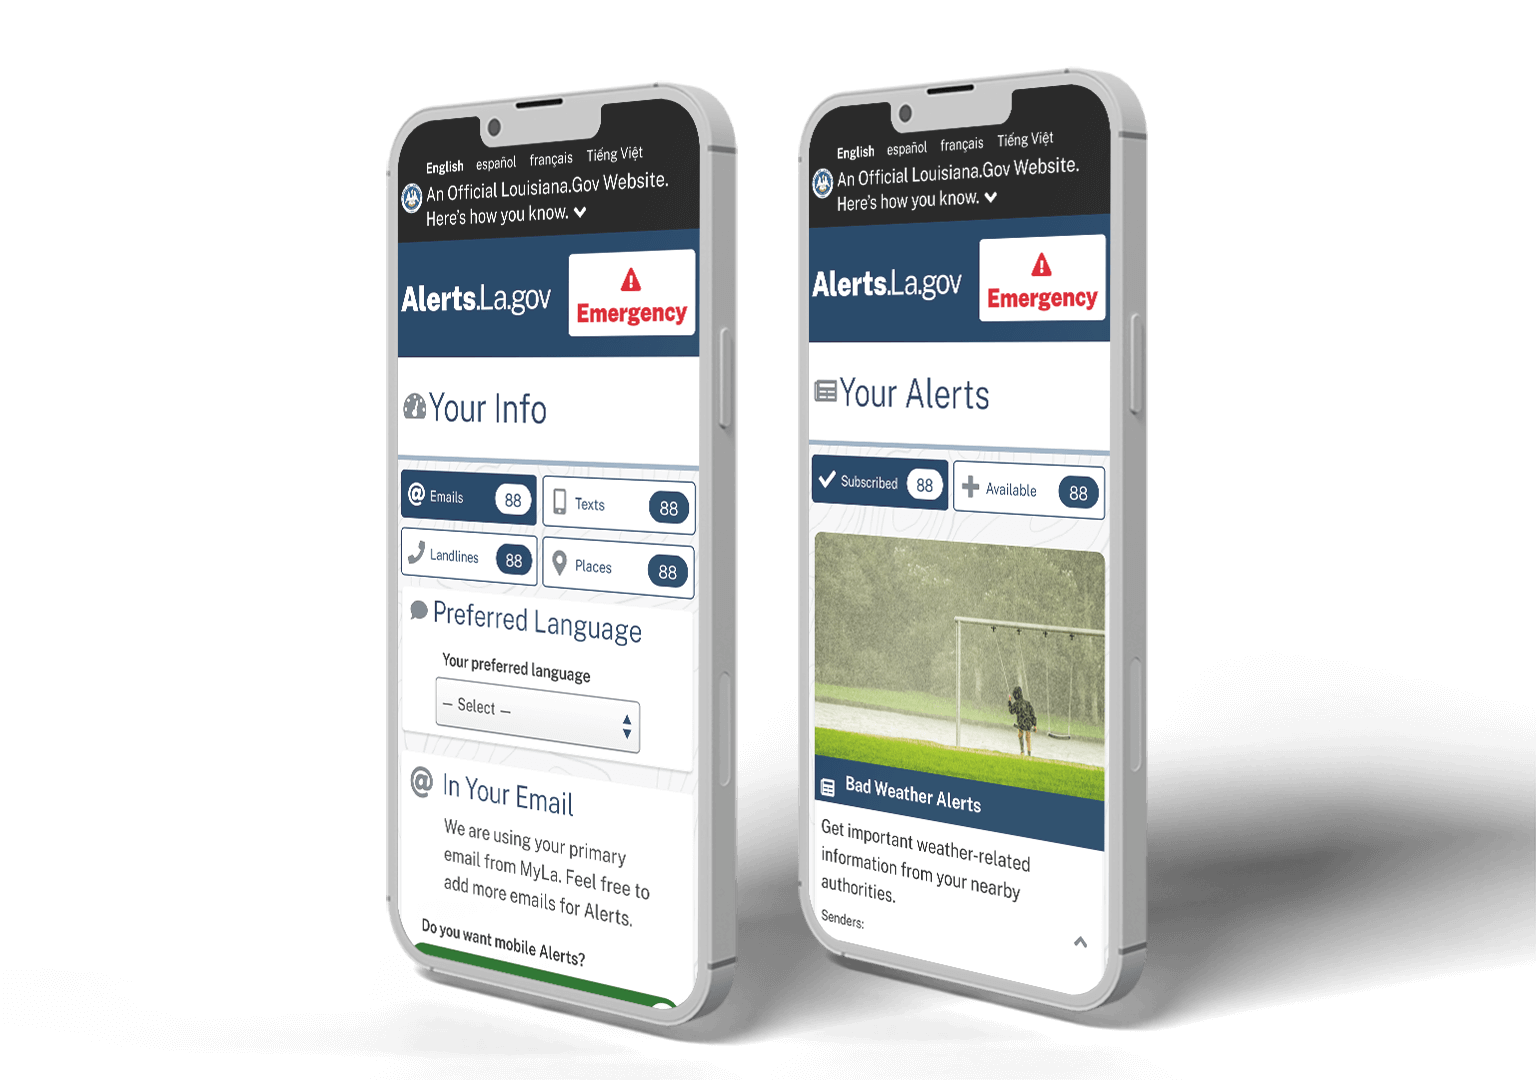
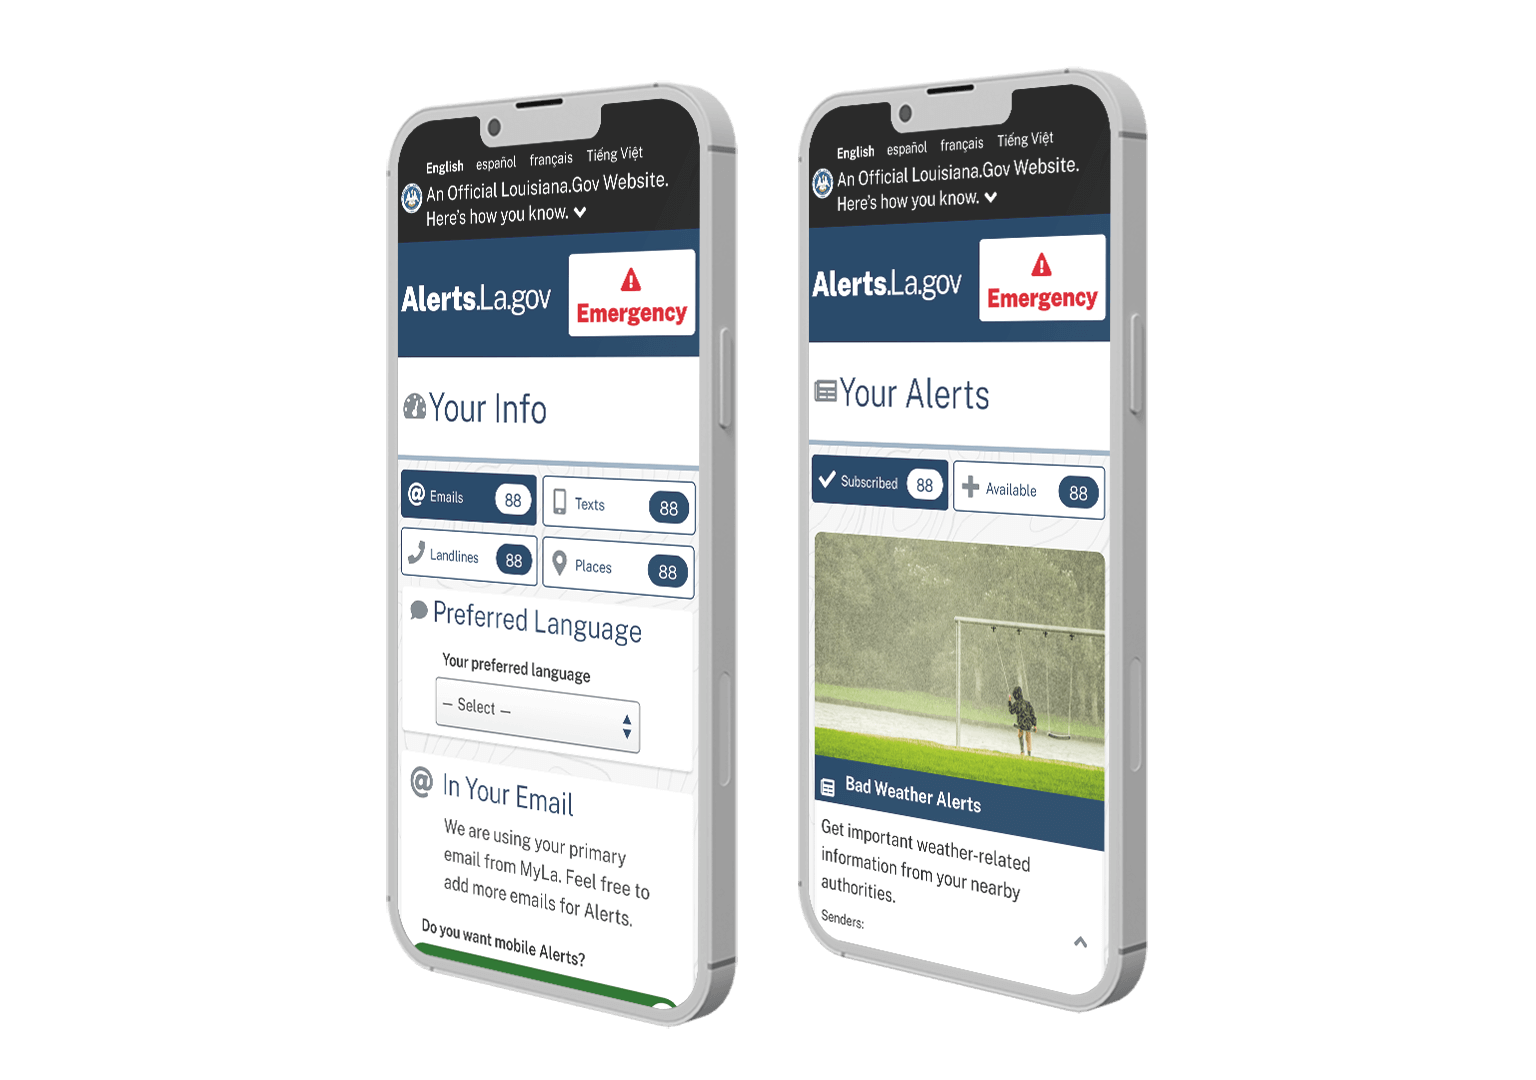
image updates

Changed region(s): [[0.4062, 0.7028, 1.0, 0.9778], [0.3125, 0.9167, 0.4062, 0.9472], [0.2812, 0.8861, 0.3125, 0.9167]]

diff --git a/src/sass/_custom.scss b/src/sass/_custom.scss
@@ -24,6 +24,10 @@ body {
     top: 0;
   }
 }
+.img-shadow {
+  -webkit-filter: drop-shadow(5px 5px 5px rgba(0,0,0,.25) );
+          filter: drop-shadow(5px 5px 5px rgba(0,0,0,.25));
+}
 .navbar-brand {
   @extend .position-relative;
   background-color: $grey-medium;
@@ -310,8 +314,10 @@ background-attachment: fixed;
   img {
     @extend .img-fluid;
     @extend .d-block;
+    @extend .rounded;
     @extend .mt-4;
-    @extend .mb-4;
+    @extend .mb-5;
+    @extend .img-shadow;
     border-radius: .25rem;
     transform: scale(1.05);
   }

diff --git a/src/projects/art-gallery-app.md b/src/projects/art-gallery-app.md
@@ -11,7 +11,7 @@ projectImgSrc2: /images/projects/art-gallery-app/art-gallery-app-mockups-designe
 projectImageAlt2: Two phones, one with the home screen of the art gallery app, the other with an art collections screen of the app.
 projectImgSrc3: /images/projects/art-gallery-app/art-gallery-app-mockups-designed-isral-duke-set-3.png
 projectImageAlt3: Two phones, one with the ticket purchase process started and the other with the ticket purchase confirmation.
-projectImgSrc4: /images/projects/art-gallery-app/art-gallery-app-canvas-designed-isral-duke.png
+projectImgSrc4: /images/projects/art-gallery-app/art-gallery-app-canvas-designed-isral-duke.jpg
 projectImageAlt4: A view of some of design screens which comprise the art gallery app.
 projectPrototypeLink: https://www.figma.com/proto/Hh5HjU7yPB3WbHwYxFKIDj/Art-Gallery-Tour?page-id=138%3A932&node-id=138%3A940&viewport=241%2C48%2C0.11&scaling=scale-down&
 projectDesignFile: https://www.figma.com/file/Hh5HjU7yPB3WbHwYxFKIDj/gallerWeMe-art-gallery?node-id=138%3A932
@@ -46,24 +46,24 @@ The research began with online surveys to determine the content in the mobile ap
 
 Paper sketches were used to capture initial design ideas, using crazy 8 methodology.
 
-<a data-fslightbox href="/images/projects/art-gallery-app/art-gallery-app-initial-concepts-designed-isral-duke.png">
-    <img alt="Initial design concept sketches for the art gallery app." src="/images/projects/art-gallery-app/art-gallery-app-initial-concepts-designed-isral-duke.png">
+<a data-fslightbox href="/images/projects/art-gallery-app/art-gallery-app-initial-concepts-designed-isral-duke.jpg">
+    <img alt="Initial design concept sketches for the art gallery app." src="/images/projects/art-gallery-app/art-gallery-app-initial-concepts-designed-isral-duke.jpg">
 </a>
 
 ### Digital Wireframes
 
 The best ideas from initial design concepts were translated into digital wireframes.
 
-<a data-fslightbox href="/images/projects/art-gallery-app/art-gallery-app-wireframes-designed-isral-duke.png">
-    <img alt="Digital wireframes created from the best hand sketches." src="/images/projects/art-gallery-app/art-gallery-app-wireframes-designed-isral-duke.png">
+<a data-fslightbox href="/images/projects/art-gallery-app/art-gallery-app-wireframes-designed-isral-duke.jpg">
+    <img alt="Digital wireframes created from the best hand sketches." src="/images/projects/art-gallery-app/art-gallery-app-wireframes-designed-isral-duke.jpg">
 </a>
 
 ### Usability Testing
 
 Usability testing data was recorded in a spreadsheet for each of the participants. Each participant was asked to perform key tasks in the wireframes. Moderated, remote testing enabled us to answer questions about the function about the wireframe setup verses the actual wireframe design. Testing occurred with digital wireframes with some follow up in the mockups.
 
-<a data-fslightbox href="/images/projects/art-gallery-app/art-gallery-app-usability-testing-performed-isral-duke.png">
-    <img alt="Affinity diagrams distilled from usability testing insights." src="/images/projects/art-gallery-app/art-gallery-app-usability-testing-performed-isral-duke.png">
+<a data-fslightbox href="/images/projects/art-gallery-app/art-gallery-app-usability-testing-performed-isral-duke.jpg">
+    <img alt="Affinity diagrams distilled from usability testing insights." src="/images/projects/art-gallery-app/art-gallery-app-usability-testing-performed-isral-duke.jpg">
 </a>
 
 ### Conclusion

diff --git a/src/about/index.md b/src/about/index.md
@@ -12,10 +12,23 @@ socialImage: https://isralduke.com/images/photos/isral-sketch-in-situ.jpg
 
 I am a **full stack designer**. This means I do Interaction Design, User Interface Design, User Experience Design, and User Research. As a plus, I can even do some coding — but I am not a frontend developer. This means I can have meaningful production discussions to bridge the gap with frontend developers while I focus on the users’ needs and the business goals.
 
+### My Journey
+
+I began life as a graphic designer. But as I designed web sites and sports marketing iPad apps, I noticed that some user interfaces were easier than others to understand. This led me to learn about the principles and psychology behind information architecture, user experience, user interface, interaction design, and how the mind interprets information on screens. Since trying to help my grandmother send and receive cat photos on her phone, I began paying attention to and learning about accessibility.
+
 ### Accessibility is Important
 
-It’s immoral to lock out users. It’s also bad business to deflate your potential customer base. My <a href="https://courses.edx.org/certificates/42dc6997e0c4460f885d0763411dee0c" target="_blank">W3C certification</a> for semantic markup and accessibility empowers me to meaningfully contribute to team efforts. At any stage of planning and design, from research to information architecture to development, I can contribute to a meaningful, accessible experience. To this end, I recently gave a talk at a local Google Developer Groups chapter about creating [Accessible, Friendly Content](https://youtu.be/xm1gRpfmwkE).
+It’s immoral to lock out users. It’s also bad business to deflate your potential customer base. My [W3C certification](https://courses.edx.org/certificates/42dc6997e0c4460f885d0763411dee0c) for semantic markup and accessibility empowers me to meaningfully contribute to team efforts. At any stage of planning and design, from research to information architecture to development, I can contribute to a meaningful, accessible experience. To this end, I recently gave a talk at a local Google Developer Groups chapter about creating [Accessible, Friendly Content](https://youtu.be/xm1gRpfmwkE).
+
+### What I Want in Work
+
+I want to work fully remotely so I can spend time with family in the United States, Europe, and the United Kingdom. At work I want to help produce digital experiences which produce real life value for people. So, [tell me what’s on your mind](#contact)?
+
+<a href="https://www.dropbox.com/s/r493rkl37t0dvfm/isral-duke-resume.pdf?dl=0" class="btn btn-dark" target="_blank">
+    Read My Resumé
+    <span class="fas fa-angle-double-right" aria-hidden="true"></span>
+</a>
 
 ### Personal
 
-In my free time, when I am not doing grad school work, I like to draw, read, and ride my bike with my wife, get coffee with friends, and enjoy warm weather.
+In my free time, when I am not doing grad school work, I like to draw, read, and ride bikes with my wife, get coffee with friends, enjoy warm weather, and go to art museums and galleries. A perfect day for me is spending the whole day with friends at coffee shops and art galleries ( _preferably those with a mixture of classical and abstract art_ ).

diff --git a/src/projects/budget-app.md b/src/projects/budget-app.md
@@ -46,24 +46,24 @@ I conducted remote and in-person interviews for a wide range of ages. Participan
 
 Paper sketches were used to capture initial design ideas, using crazy 8 methodology. Some cues were taken from existing budget apps’ features, reducing complexity.
 
-<a data-fslightbox href="/images/projects/budget-app/budget-app-initial-concepts-designed-isral-duke.png">
-    <img alt="Initial design concept sketches for the budget app." src="/images/projects/budget-app/budget-app-initial-concepts-designed-isral-duke.png">
+<a data-fslightbox href="/images/projects/budget-app/budget-app-initial-concepts-designed-isral-duke.jpg">
+    <img alt="Initial design concept sketches for the budget app." src="/images/projects/budget-app/budget-app-initial-concepts-designed-isral-duke.jpg">
 </a>
 
 ### Digital Wireframes
 
 The best ideas from initial design concepts were translated into digital wireframes.
 
-<a data-fslightbox href="/images/projects/budget-app/budget-app-wireframes-designed-isral-duke.png">
-    <img alt="Digital wireframes created from the best hand sketches." src="/images/projects/budget-app/budget-app-wireframes-designed-isral-duke.png">
+<a data-fslightbox href="/images/projects/budget-app/budget-app-wireframes-designed-isral-duke.jpg">
+    <img alt="Digital wireframes created from the best hand sketches." src="/images/projects/budget-app/budget-app-wireframes-designed-isral-duke.jpg">
 </a>
 
 ### Usability Testing
 
 Usability testing data was recorded in a spreadsheet for each of the participants and in affinity diagrams. Two of the users were self-reported as dyslexic readers. The dyslexic users found the application easy to scan and read. All participants’ feedback were taken into consideration for a second round of wireframes.
 
-<a data-fslightbox href="/images/projects/art-gallery-app/art-gallery-app-usability-testing-performed-isral-duke.png">
-    <img alt="Affinity diagrams distilled from usability testing insights." src="/images/projects/art-gallery-app/art-gallery-app-usability-testing-performed-isral-duke.png">
+<a data-fslightbox href="/images/projects/art-gallery-app/art-gallery-app-usability-testing-performed-isral-duke.jpg">
+    <img alt="Affinity diagrams distilled from usability testing insights." src="/images/projects/art-gallery-app/art-gallery-app-usability-testing-performed-isral-duke.jpg">
 </a>
 
 ### Conclusion

diff --git a/src/projects/food-truck-site.md b/src/projects/food-truck-site.md
@@ -44,16 +44,16 @@ Remote interviews uncovered popular food trucks in the regions where the partici
 
 ### Digital Wireframes
 
-<a data-fslightbox href="/images/projects/food-truck-site/food-truck-site-wireframes-designed-isral-duke.png">
-    <img alt="Digital wireframes created from the best hand sketches." src="/images/projects/food-truck-site/food-truck-site-wireframes-designed-isral-duke.png">
+<a data-fslightbox href="/images/projects/food-truck-site/food-truck-site-wireframes-designed-isral-duke.jpg">
+    <img alt="Digital wireframes created from the best hand sketches." src="/images/projects/food-truck-site/food-truck-site-wireframes-designed-isral-duke.jpg">
 </a>
 
 ### Usability Testing
 
 Usability testing data was recorded in a spreadsheet for each of the participants. Each participant was asked to perform key tasks in the wireframes. Moderated, remote testing enabled us to answer questions about the function about the testing apparatus verses the actual wireframe design.
 
-<a data-fslightbox href="/images/projects/food-truck-site/food-truck-site-usability-testing-performed-isral-duke.png">
-    <img alt="Affinity diagrams distilled from usability testing insights." src="/images/projects/food-truck-site/food-truck-site-usability-testing-performed-isral-duke.png">
+<a data-fslightbox href="/images/projects/food-truck-site/food-truck-site-usability-testing-performed-isral-duke.jpg">
+    <img alt="Affinity diagrams distilled from usability testing insights." src="/images/projects/food-truck-site/food-truck-site-usability-testing-performed-isral-duke.jpg">
 </a>
 
 ### Conclusion

diff --git a/src/projects/karaoke-competition-app.md b/src/projects/karaoke-competition-app.md
@@ -41,6 +41,6 @@ No research was done for this app. We had three hours to concept an app, design 
 
 The team designing this app, “The Pun-o-matics,” of which I was a part with [Michael Alford](https://www.michaelalford.com/), won 1st Place People’s Choice and 2nd Place Professionals’ Choice awards. The app isn’t actually built but I’d love to collaborate with interested parties in actually building it. It was conceived and designed at [Adobe Creative Jam, New Orleans](https://www.behance.net/gallery/66242371/New-Orleans-Creative-Jam-2018).
 
-<a data-fslightbox href="/images/projects/karaoke-competition-app/karaoke-competition-app-adobe-creative-jam-winner-isral-duke-michael-alford.png">
-    <img alt="Karaoke competition app Adobe Creative Jam awards, won by Michael Alford and isral Duke." src="/images/projects/karaoke-competition-app/karaoke-competition-app-adobe-creative-jam-winner-isral-duke-michael-alford.png">
+<a data-fslightbox href="/images/projects/karaoke-competition-app/karaoke-competition-app-adobe-creative-jam-winner-isral-duke-michael-alford.jpg">
+    <img alt="Karaoke competition app Adobe Creative Jam awards, won by Michael Alford and isral Duke." src="/images/projects/karaoke-competition-app/karaoke-competition-app-adobe-creative-jam-winner-isral-duke-michael-alford.jpg">
 </a>

diff --git a/src/projects/step-counter-app.md b/src/projects/step-counter-app.md
@@ -7,7 +7,7 @@ projectStatus: Published
 projectLeadSentence: An Apple watchOS and iOS step counter app which gives users a quick glance at their steps.
 projectImgSrc1: /images/projects/step-counter-app/step-counter-app-designed-patrick-rills-isral-duke.jpg
 projectImageAlt1: App screen designs on iPhone and Apple Watch for the step counter app.
-projectImgSrc2: /images/projects/step-counter-app/step-counter-app-mockups-designed-patrick-rills-isral-duke-set-2.png
+projectImgSrc2: /images/projects/step-counter-app/step-counter-app-mockups-designed-patrick-rills-isral-duke-set-1.png
 projectImageAlt2: Apple watch showing the screen which presents the steps walked.
 projectImgSrc3: /images/projects/step-counter-app/step-counter-app-mockups-designed-patrick-rills-isral-duke-set-3.png
 projectImageAlt3: Two phone screens are presented. One screen shows the home screen of the step counter app. The other screen shows the trophies screen for exceeding step goals.
